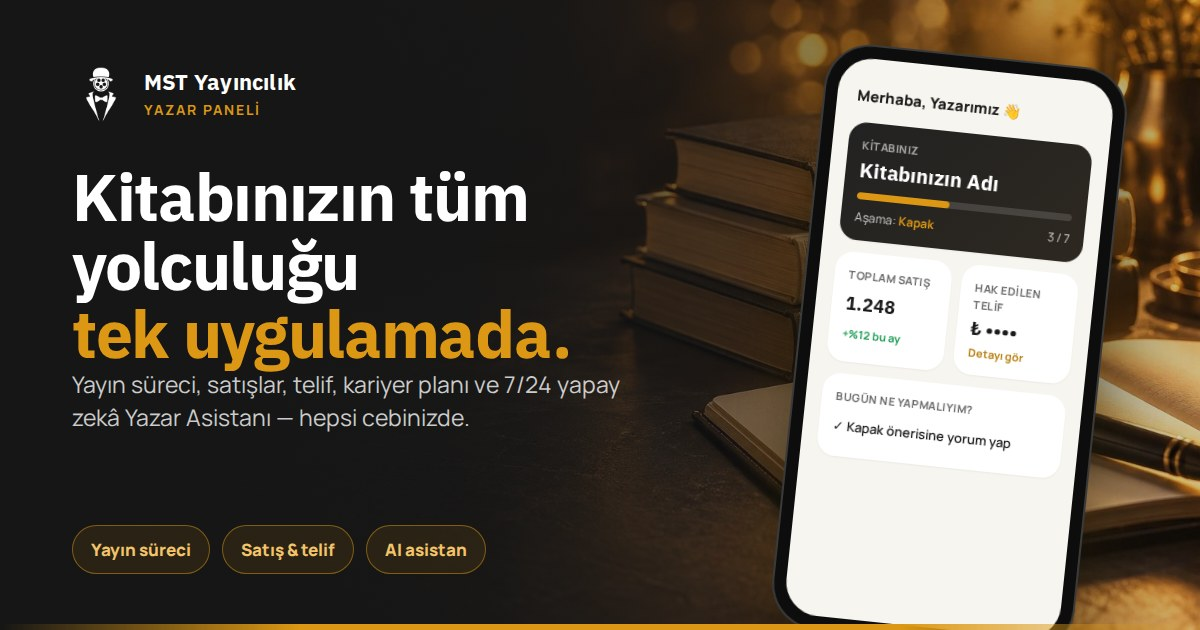
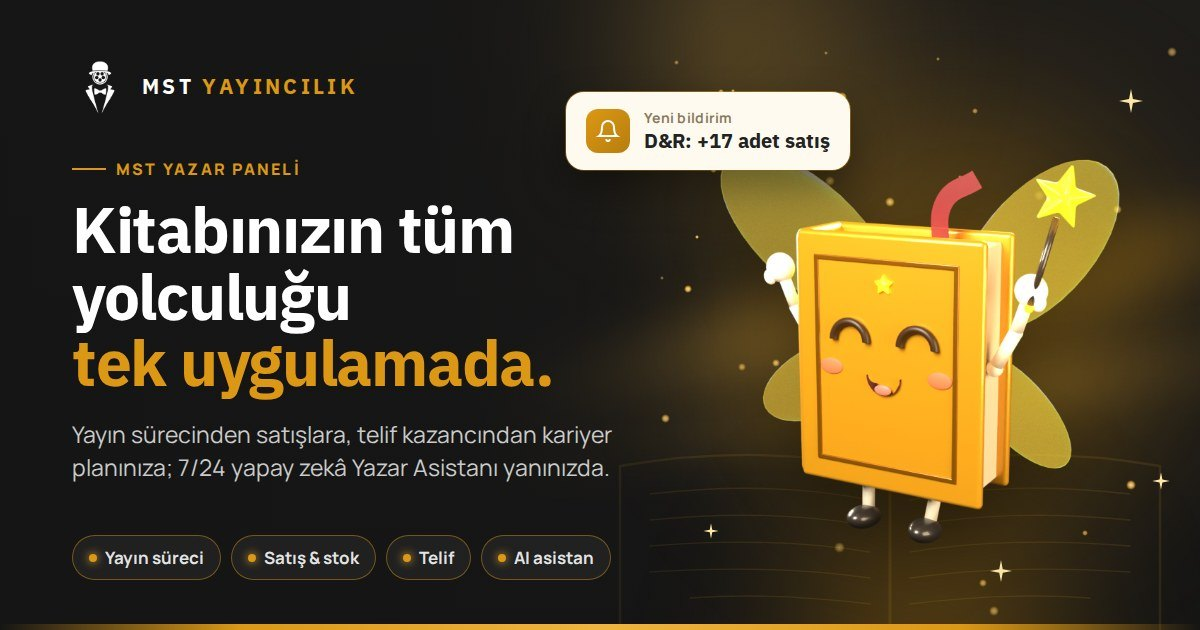
1.4.3: Yeni WhatsApp paylaşım görselleri (randevu + Yazar Paneli)
İki sayfa için aynı kapak tarzında 1200x630 görsel: koyu zemin, altın ışık, kitap perisi,
MST Yayıncılık. Randevu: "Kitabınızı birlikte yayımlayalım" + ön görüşme kartı;
Yazar Paneli: genel tanıtım + özellik çipleri. Randevu sayfasının paylaşım başlığı/açıklaması güncellendi.

Claude-Session: https://claude.ai/code/session_016jxJxK4dnTMYkiSJfzshfK

diff --git a/mst-randevu/mst-randevu.php b/mst-randevu/mst-randevu.php
@@ -2,7 +2,7 @@
 /**
  * Plugin Name: MST Yazar Adayı Randevu
  * Description: Yazar adaylarının müsait saatlerden görüşme randevusu alması. Kısa kod: [mst_randevu] — ya da sayfa şablonu olarak "MST Randevu (Tam Sayfa)".
- * Version:     1.4.2
+ * Version:     1.4.3
  * Author:      MST Yayıncılık
  * Text Domain: mst-randevu
  * Requires PHP: 7.4
@@ -12,7 +12,7 @@ if (!defined('ABSPATH')) {
     exit;
 }
 
-define('MST_RANDEVU_VER', '1.4.2');
+define('MST_RANDEVU_VER', '1.4.3');
 define('MST_RANDEVU_DB', 2);
 define('MST_RANDEVU_URL', plugin_dir_url(__FILE__));
 
@@ -367,8 +367,8 @@ class MST_Randevu
             ? ['MST Yazar Paneli — Kitabınızın tüm yolculuğu tek uygulamada',
                'Yayın süreci, satışlar, telif, kariyer planı ve 7/24 yapay zekâ Yazar Asistanı tek uygulamada. MST Yayıncılık yazarlarına özel.',
                'paylasim-uygulama.jpg']
-            : ['Ücretsiz yazar adayı görüşmesi — MST Yayıncılık',
-               'Kitabınızı konuşalım: size uygun saati seçin, editörümüz sizi arasın. Ücretsiz ön değerlendirme.',
+            : ['Kitabınızı birlikte yayımlayalım — Ücretsiz ön görüşme | MST Yayıncılık',
+               'Size uygun saati seçin, editörümüz sizi arasın. Ücretsiz ön görüşmede yol haritanızı birlikte çıkaralım.',
                'paylasim-randevu.jpg'];
         $gorsel = MST_RANDEVU_URL . 'assets/' . $m[2] . '?ver=' . MST_RANDEVU_VER;
         $url    = get_permalink() ?: home_url('/');
